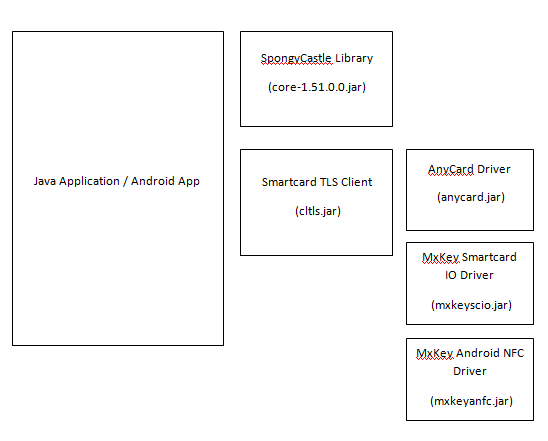
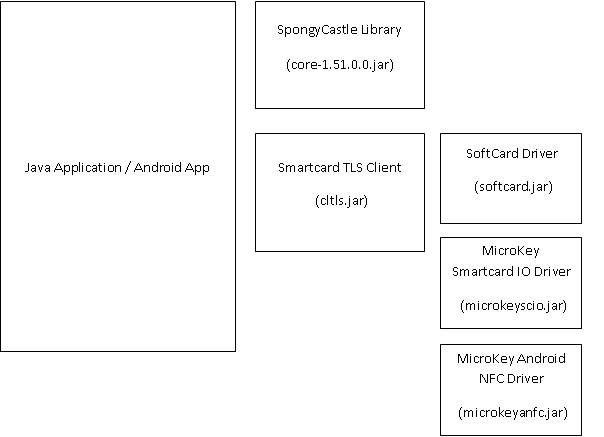
Update readme and diagrams

Changed region(s): [[0.0, 0.0, 0.9927, 0.8032], [0.7135, 0.7437, 0.9927, 1.0], [0.0, 0.0, 0.031, 0.0297]]

diff --git a/README.md b/README.md
@@ -1,16 +1,17 @@
-# contactless-tls
+# Contactless-TLS
 This library adds client certificate authentication, using a contactless smart card, over a TLS/SSL connection.
 
 Please review the wiki pages for more infomation.
 
 ###Latest Binaries
 
-- SpongyCastle Core library ([core-1.51.0.0.jar](https://github.com/matthewcaperon/contactless-tls/blob/master/libs/core-1.51.0.0.jar?raw=true))
+- [SpongyCastle](https://rtyley.github.io/spongycastle/) Core library ([core-1.51.0.0.jar](https://github.com/matthewcaperon/contactless-tls/blob/master/libs/core-1.51.0.0.jar?raw=true))
 - Contactless-TLS library ([contactless-tls.jar](https://github.com/matthewcaperon/contactless-tls/blob/master/lib-cltls/dist/contactless-tls.jar?raw=true))
 - SoftCard driver ([softcard.jar](https://github.com/matthewcaperon/contactless-tls/blob/master/card-drivers/softcard/dist/softcard.jar?raw=true))
 
-Binary for MicroKey Smart Card driver:
-- MicroKey driver ([mxkeyscio.jar](https://github.com/matthewcaperon/contactless-tls/blob/master/card-drivers/mxkeyscio.jar?raw=true))
+Driver binaries for the MicroKey smart card:
+- MicroKey Java smart card IO driver ([mxkeyscio.jar](https://github.com/matthewcaperon/contactless-tls/blob/master/card-drivers/microkeyscio.jar?raw=true))
+- MicroKey Android NFC driver ([mxkeyanfc.jar](https://github.com/matthewcaperon/contactless-tls/blob/master/card-drivers/microkeyanfc.jar?raw=true))
 
 ### Getting Started
 See the sample walkthrough to [Get Started](https://github.com/matthewcaperon/contactless-tls/wiki/Sample-Walkthrough)  
